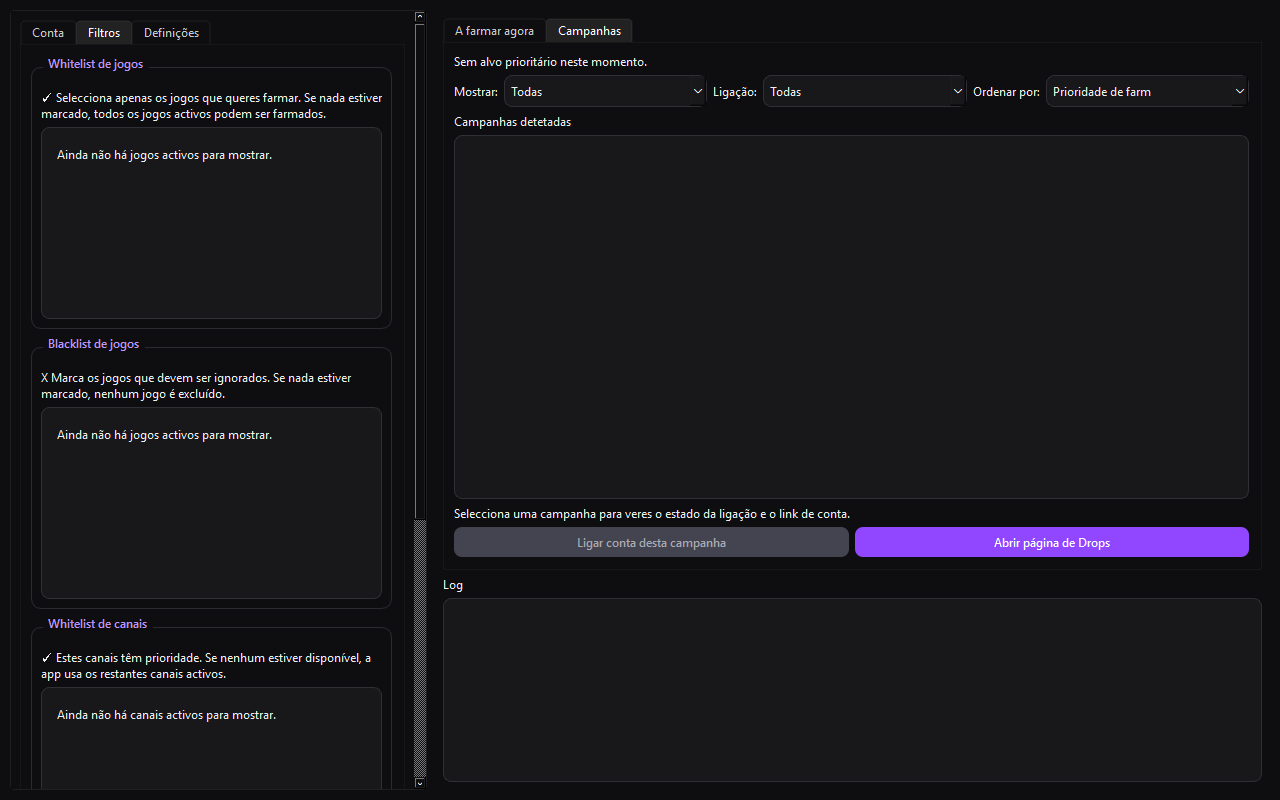
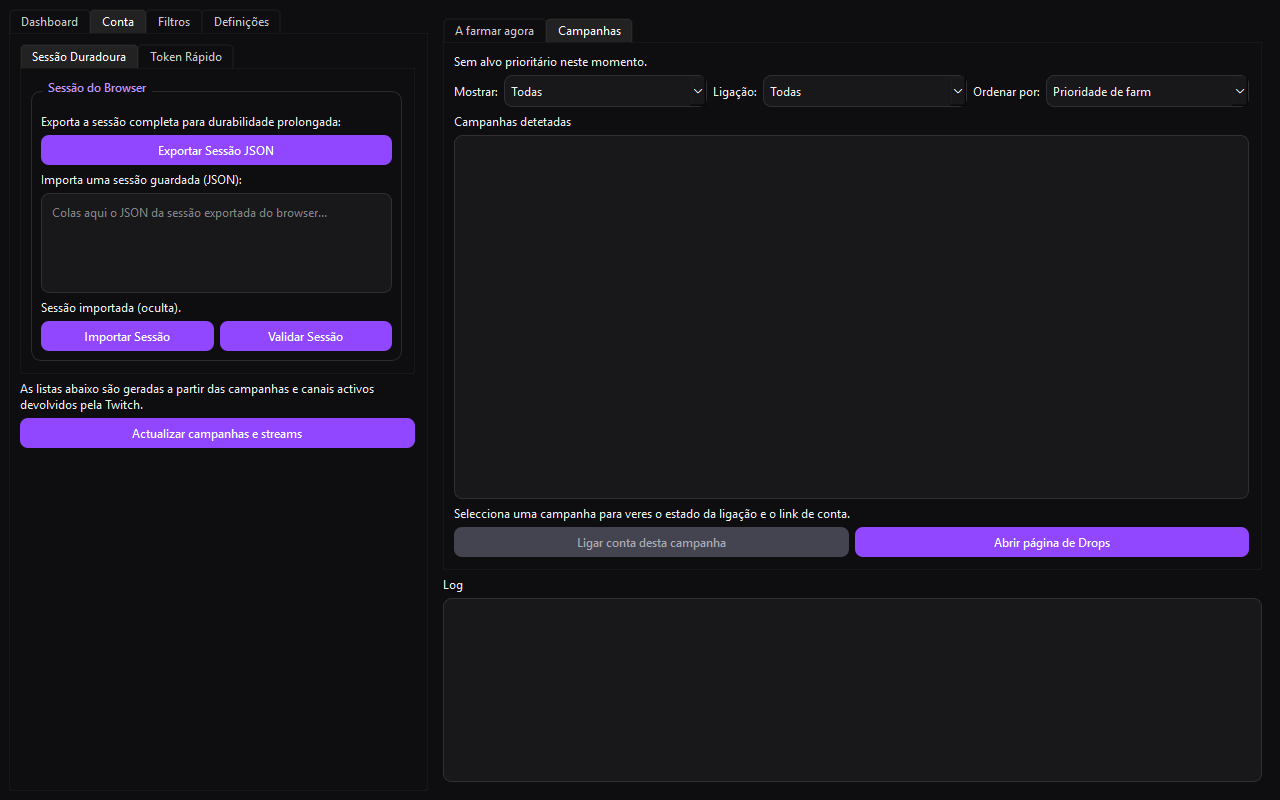
docs: update README screenshots for v1.1.0 UI
- Add new ui-dashboard.png showing the game cards grid (new in v1.1.0)
- Refresh ui-farming.png, ui-campaigns.png, ui-settings.png to match
  the current PySide6 UI (4-tab left panel, new farming view with box art)
- Add tools/take_screenshots.py for reproducible screenshot generation
- Update README.md and README.en.md screenshots section to include Dashboard

diff --git a/tools/take_screenshots.py b/tools/take_screenshots.py
@@ -1,0 +1,88 @@
+"""
+take_screenshots.py – Gera screenshots da UI do TwitchDropFarmer em estado vazio.
+
+Uso:
+    cd <raiz do repo>
+    python tools/take_screenshots.py
+
+Os screenshots são gravados em docs/images/:
+    ui-dashboard.png   – tab Dashboard (esquerda) + tab Farming now (direita)
+    ui-farming.png     – tab Filtros (esquerda) + tab Farming now (direita)
+    ui-campaigns.png   – tab Conta (esquerda) + tab Campaigns (direita)
+    ui-settings.png    – tab Definições (esquerda) + tab Campaigns (direita)
+
+Não é necessário estar autenticado — todos os screenshots mostram estado vazio.
+"""
+
+import sys
+import os
+from pathlib import Path
+
+# Garante que o src/ está no PYTHONPATH
+REPO_ROOT = Path(__file__).resolve().parent.parent
+sys.path.insert(0, str(REPO_ROOT / "src"))
+
+from PySide6.QtWidgets import QApplication
+from PySide6.QtCore import Qt, QTimer
+
+os.environ.setdefault("QT_SCALE_FACTOR", "1")
+
+OUT_DIR = REPO_ROOT / "docs" / "images"
+OUT_DIR.mkdir(parents=True, exist_ok=True)
+
+WINDOW_W = 1280
+WINDOW_H = 800
+
+
+def save_shot(window, filename: str) -> None:
+    pixmap = window.grab()
+    path = str(OUT_DIR / filename)
+    pixmap.save(path, "PNG")
+    print(f"  Saved: {path}")
+
+
+def run() -> None:
+    app = QApplication(sys.argv)
+
+    from twitch_drop_farmer.ui import MainWindow
+
+    window = MainWindow()
+    window.resize(WINDOW_W, WINDOW_H)
+    window.show()
+    app.processEvents()
+
+    # ── Screenshot 1: Dashboard (novo) ─────────────────────────────────────
+    # Left = tab 0 (Dashboard), Right = tab 0 (Farming now)
+    window.tabs_left.setCurrentIndex(0)
+    window.tabs_right.setCurrentIndex(0)
+    app.processEvents()
+    save_shot(window, "ui-dashboard.png")
+
+    # ── Screenshot 2: Farming now ───────────────────────────────────────────
+    # Left = tab 2 (Filtros), Right = tab 0 (Farming now)
+    window.tabs_left.setCurrentIndex(2)
+    window.tabs_right.setCurrentIndex(0)
+    app.processEvents()
+    save_shot(window, "ui-farming.png")
+
+    # ── Screenshot 3: Campanhas ─────────────────────────────────────────────
+    # Left = tab 1 (Conta), Right = tab 1 (Campanhas)
+    window.tabs_left.setCurrentIndex(1)
+    window.tabs_right.setCurrentIndex(1)
+    app.processEvents()
+    save_shot(window, "ui-campaigns.png")
+
+    # ── Screenshot 4: Definições ────────────────────────────────────────────
+    # Left = tab 3 (Definições), Right = tab 1 (Campanhas)
+    window.tabs_left.setCurrentIndex(3)
+    window.tabs_right.setCurrentIndex(1)
+    app.processEvents()
+    save_shot(window, "ui-settings.png")
+
+    window.close()
+    app.quit()
+    print("\nDone. Screenshots saved to docs/images/")
+
+
+if __name__ == "__main__":
+    run()

diff --git a/README.en.md b/README.en.md
@@ -65,8 +65,20 @@ Use your Twitch auth-token cookie value inside the app (Account tab).
 
 ## Screenshots
 
+### Dashboard
+
+![Dashboard](docs/images/ui-dashboard.png)
+
+### Farming View
+
 ![Farming View](docs/images/ui-farming.png)
+
+### Campaigns View
+
 ![Campaigns View](docs/images/ui-campaigns.png)
+
+### Settings View
+
 ![Settings View](docs/images/ui-settings.png)
 
 ## Notes

diff --git a/README.md b/README.md
@@ -103,6 +103,10 @@ Notas:
 
 ## Capturas de ecrã
 
+### Dashboard
+
+![Dashboard](docs/images/ui-dashboard.png)
+
 ### Vista de Farming
 
 ![Vista de Farming](docs/images/ui-farming.png)
